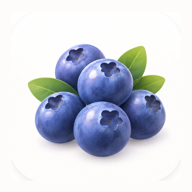
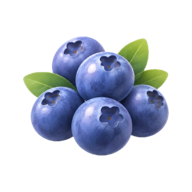
출시 전 손보기: 빈 음식·레시피 메뉴와 준비 중 로그인 버튼 감추기, 앱 아이콘 다시 만들기(안드로이드용 따로)

Changed region(s): [[0.0938, 0.1875, 0.9062, 0.8438]]

diff --git a/index.html b/index.html
@@ -450,6 +450,7 @@
   .login-btn.naver{background:#03C75A;color:#fff;}
   .login-btn.apple{background:#000;color:#fff;}
   .login-btn:disabled{opacity:.42;cursor:default;}
+  .login-btn[hidden]{display:none;}
   .login-soon{font-size:11px;font-weight:600;padding:2px 7px;border-radius:999px;background:rgba(255,255,255,.75);color:#29283A;}
   .set-action{width:100%;background:none;border:none;font-size:15px;font-weight:500;text-align:left;cursor:pointer;color:var(--ink);min-height:52px;}
   .set-action.danger{color:#C0392B;}
@@ -725,14 +726,14 @@
       </div>
     </div>
 
-    <!-- 로그인 안 했을 때: 로그인 방법 고르기. 카카오·네이버·애플은 아직 준비 중 (handoff 참고) -->
+    <!-- 로그인 안 했을 때: 로그인 방법 고르기. 카카오·네이버·애플은 아직 안 붙여서 hidden으로 숨김 (붙이면 hidden·disabled를 빼고 「준비 중」 표시도 지움, handoff 참고) -->
     <div id="login-box">
       <p class="set-label">로그인</p>
       <div class="login-list">
-        <button class="login-btn kakao" disabled><svg class="login-logo" viewBox="0 0 24 24" aria-hidden="true"><path fill="#000" d="M12 3.5c-5 0-9 3.15-9 7.03 0 2.5 1.66 4.7 4.16 5.95l-.85 3.1c-.07.27.24.49.47.33l3.66-2.43c.51.07 1.03.1 1.56.1 5 0 9-3.15 9-7.05S17 3.5 12 3.5z"/></svg>카카오로 계속하기 <span class="login-soon">준비 중</span></button>
-        <button class="login-btn naver" disabled><svg class="login-logo" viewBox="0 0 24 24" aria-hidden="true"><path fill="#fff" d="M14.4 12.5 9.4 5H5v14h4.6v-7.5l5 7.5H19V5h-4.6z"/></svg>네이버로 계속하기 <span class="login-soon">준비 중</span></button>
+        <button class="login-btn kakao" disabled hidden><svg class="login-logo" viewBox="0 0 24 24" aria-hidden="true"><path fill="#000" d="M12 3.5c-5 0-9 3.15-9 7.03 0 2.5 1.66 4.7 4.16 5.95l-.85 3.1c-.07.27.24.49.47.33l3.66-2.43c.51.07 1.03.1 1.56.1 5 0 9-3.15 9-7.05S17 3.5 12 3.5z"/></svg>카카오로 계속하기 <span class="login-soon">준비 중</span></button>
+        <button class="login-btn naver" disabled hidden><svg class="login-logo" viewBox="0 0 24 24" aria-hidden="true"><path fill="#fff" d="M14.4 12.5 9.4 5H5v14h4.6v-7.5l5 7.5H19V5h-4.6z"/></svg>네이버로 계속하기 <span class="login-soon">준비 중</span></button>
         <button class="login-btn google" id="btn-login-google"><svg class="login-logo" viewBox="0 0 48 48" aria-hidden="true"><path fill="#EA4335" d="M24 9.5c3.54 0 6.71 1.22 9.21 3.6l6.85-6.85C35.9 2.38 30.47 0 24 0 14.62 0 6.51 5.38 2.56 13.22l7.98 6.19C12.43 13.72 17.74 9.5 24 9.5z"/><path fill="#4285F4" d="M46.98 24.55c0-1.57-.15-3.09-.38-4.55H24v9.02h12.94c-.58 2.96-2.26 5.48-4.78 7.18l7.73 6c4.51-4.18 7.09-10.36 7.09-17.65z"/><path fill="#FBBC05" d="M10.53 28.59c-.48-1.45-.76-2.99-.76-4.59s.27-3.14.76-4.59l-7.98-6.19C.92 16.46 0 20.12 0 24c0 3.88.92 7.54 2.56 10.78l7.97-6.19z"/><path fill="#34A853" d="M24 48c6.48 0 11.93-2.13 15.89-5.81l-7.73-6c-2.15 1.45-4.92 2.3-8.16 2.3-6.26 0-11.57-4.22-13.47-9.91l-7.98 6.19C6.51 42.62 14.62 48 24 48z"/></svg>구글로 계속하기</button>
-        <button class="login-btn apple" disabled><svg class="login-logo" viewBox="0 0 24 24" aria-hidden="true"><path fill="#fff" d="M16.37 12.6c-.02-2.2 1.8-3.26 1.88-3.31-1.03-1.5-2.62-1.7-3.18-1.73-1.35-.14-2.64.8-3.33.8-.69 0-1.74-.78-2.86-.76-1.47.02-2.83.86-3.59 2.18-1.53 2.66-.39 6.6 1.1 8.75.73 1.05 1.6 2.24 2.73 2.2 1.1-.05 1.51-.71 2.84-.71 1.32 0 1.7.71 2.86.69 1.18-.02 1.93-1.07 2.65-2.13.83-1.22 1.18-2.4 1.2-2.46-.03-.01-2.28-.88-2.3-3.48zM14.2 6.13c.6-.73 1.01-1.75.9-2.76-.87.04-1.92.58-2.54 1.31-.56.65-1.05 1.69-.92 2.68.97.08 1.96-.49 2.56-1.23z"/></svg>Apple로 계속하기 <span class="login-soon">준비 중</span></button>
+        <button class="login-btn apple" disabled hidden><svg class="login-logo" viewBox="0 0 24 24" aria-hidden="true"><path fill="#fff" d="M16.37 12.6c-.02-2.2 1.8-3.26 1.88-3.31-1.03-1.5-2.62-1.7-3.18-1.73-1.35-.14-2.64.8-3.33.8-.69 0-1.74-.78-2.86-.76-1.47.02-2.83.86-3.59 2.18-1.53 2.66-.39 6.6 1.1 8.75.73 1.05 1.6 2.24 2.73 2.2 1.1-.05 1.51-.71 2.84-.71 1.32 0 1.7.71 2.86.69 1.18-.02 1.93-1.07 2.65-2.13.83-1.22 1.18-2.4 1.2-2.46-.03-.01-2.28-.88-2.3-3.48zM14.2 6.13c.6-.73 1.01-1.75.9-2.76-.87.04-1.92.58-2.54 1.31-.56.65-1.05 1.69-.92 2.68.97.08 1.96-.49 2.56-1.23z"/></svg>Apple로 계속하기 <span class="login-soon">준비 중</span></button>
       </div>
       <p class="set-note">로그인하지 않으면 기록은 이 기기에만 저장돼요. 로그인하면 <a href="privacy.html">개인정보처리방침</a>에 따라 바구니 기록을 저장해요.</p>
     </div>
@@ -2269,13 +2270,14 @@ function navigate(go){
 // 메뉴는 아래 데이터(MENU)로만 정의함. 항목을 늘릴 땐 여기만 고치면 됨
 //   id: 고유 이름 / label: 표시 이름 / icon: ICON_PATHS 이름
 //   go: 누르면 갈 곳 {tab, filter?(사전), dish?(음식·레시피)}  /  children: 하위 메뉴 (배열 또는 사전 데이터로 만드는 함수)
+//   show: 이 함수가 false면 메뉴에 안 보임 (데이터가 없는 메뉴는 감춤 — 빈 화면으로 가지 않게)
 const MENU = [
   {id:"home", label:"홈", icon:"home", go:{tab:"home"}},
   {id:"foods", label:"식재료", icon:"leaf", children: ()=>[
     {id:"foods-all", label:"전체", count:ingredients().length, go:{tab:"dict", filter:{type:"all"}}},
     ...presentCategories().map(c=>({id:"cat-" + c, label:c, count:countCategory(c), go:{tab:"dict", filter:{type:"cat", cat:c}}})),
   ]},
-  {id:"dishes", label:"음식·레시피", icon:"pot", children: ()=>[
+  {id:"dishes", label:"음식·레시피", icon:"pot", show: ()=>FOODS.some(f=>f.kind==="dish"), children: ()=>[
     {id:"dish-all", label:"전체", go:{tab:"dishes", dish:"all"}},
     ...CUISINES.map(c=>({id:"dish-" + c, label:c, go:{tab:"dishes", dish:c}})),
   ]},
@@ -2320,7 +2322,7 @@ function menuNode(n, depth){
 }
 function renderMenu(){
   menuIndex = new Map();
-  document.getElementById("drawer-nav").replaceChildren(...MENU.map(n=>menuNode(n, 0)));
+  document.getElementById("drawer-nav").replaceChildren(...MENU.filter(n=>!n.show || n.show()).map(n=>menuNode(n, 0)));
 }
 function toggleMenuGroup(btn){
   const id = btn.dataset.menuToggle;

diff --git a/tools/compose-icon.swift b/tools/compose-icon.swift
@@ -1,0 +1,31 @@
+// 앱 아이콘 만들기: 배경이 투명한 그림(오려낸 블루베리)을 흰 정사각형 가운데에 얹어 png로 저장
+// 쓰는 법: swiftc -O tools/compose-icon.swift -o /tmp/compose-icon
+//          /tmp/compose-icon 오려낸그림.png icon-512.png 512 0.82    ← 마지막 숫자 = 그림이 차지하는 비율
+//   - 일반 아이콘(icon-192/512): 0.82 정도
+//   - 안드로이드용(maskable, 동그랗게 잘림): 가운데 80% 원 안에 들어가야 하므로 0.62 정도
+import Foundation
+import AppKit
+
+let a = CommandLine.arguments
+guard a.count >= 5, let src = NSImage(contentsOfFile: a[1]),
+      let size = Double(a[3]), let ratio = Double(a[4]) else {
+  fatalError("usage: compose-icon <input.png> <output.png> <size> <ratio>")
+}
+let S = CGFloat(size)
+let rep = NSBitmapImageRep(bitmapDataPlanes: nil, pixelsWide: Int(S), pixelsHigh: Int(S),
+                           bitsPerSample: 8, samplesPerPixel: 4, hasAlpha: true, isPlanar: false,
+                           colorSpaceName: .deviceRGB, bytesPerRow: 0, bitsPerPixel: 0)!
+NSGraphicsContext.saveGraphicsState()
+NSGraphicsContext.current = NSGraphicsContext(bitmapImageRep: rep)
+NSGraphicsContext.current?.imageInterpolation = .high
+NSColor.white.setFill()
+NSRect(x: 0, y: 0, width: S, height: S).fill()
+// 그림을 비율에 맞춰 줄이고 가운데에 놓음 (가로·세로 중 긴 쪽 기준)
+let w = src.size.width, h = src.size.height
+let scale = S * CGFloat(ratio) / max(w, h)
+let dw = w * scale, dh = h * scale
+src.draw(in: NSRect(x: (S - dw) / 2, y: (S - dh) / 2, width: dw, height: dh),
+         from: .zero, operation: .sourceOver, fraction: 1)
+NSGraphicsContext.restoreGraphicsState()
+try! rep.representation(using: .png, properties: [:])!.write(to: URL(fileURLWithPath: a[2]))
+print("ok")

diff --git a/sw.js b/sw.js
@@ -1,5 +1,5 @@
 // 블루베리 — 오프라인 캐싱용 서비스워커
-const CACHE_NAME = "blueberry-v128";
+const CACHE_NAME = "blueberry-v129";
 const ASSETS = [
   "./",
   "./index.html",
@@ -7,7 +7,9 @@ const ASSETS = [
   "./manifest.json",
   "./foods.json",
   "./icon-192.png",
-  "./icon-512.png"
+  "./icon-512.png",
+  "./icon-maskable-192.png",
+  "./icon-maskable-512.png"
 ];
 
 self.addEventListener("install", (e) => {

diff --git a/handoff.md b/handoff.md
@@ -1,7 +1,7 @@
 # 블루베리 앱 — 인수인계
 
 > 새 대화를 열면 이 파일부터 읽게 할 것. 작업이 한 단계 끝날 때마다 Claude가 최신으로 고친다.
-> 마지막 갱신: 2026-11-25
+> 마지막 갱신: 2026-11-28
 
 ## 지금 상태
 
@@ -99,6 +99,11 @@
 ## 진행 상황
 
 **끝난 것**
+- **출시 전 화면 손보기 1차** (2026-11-28, v129) — 휴대폰 크기로 화면을 둘러보고 「꼭 고칠 것」 3가지 처리
+  - 빈 메뉴 「음식·레시피」 감춤: 완성 음식(`kind:"dish"`)이 0개라 빈 화면이었음. `MENU`에 `show` 조건을 넣어 음식이 생기면 저절로 다시 보임
+  - 「준비 중」 로그인 버튼(카카오·네이버·Apple) 감춤: 스토어 심사에서 「작동 안 하는 버튼」으로 걸릴 수 있고 「준비 중 표시 금지」 원칙과도 맞지 않아서. 버튼 코드는 `hidden`으로 남겨 둠(붙일 때 hidden·disabled·준비 중 표시를 지우면 됨). 지금은 구글 버튼만 보임
+  - 앱 아이콘 새로 만듦: 옛 둥근 테두리 흔적을 없애고(블루베리만 오려서 흰 바탕에 다시 얹음), 안드로이드용 `icon-maskable-192/512.png`(여백 넉넉)를 따로 둬 manifest에 연결. 도구 `tools/compose-icon.swift`
+  - 남은 제안(2026-11-25 화면 점검): 바구니 분류 「식당·요리」 정리(식재료 중심으로), 사전 화면 안내 문구 한 줄로, 스토어용 이미지(대표 그림 1024×500, 화면 캡처 2~8장)
 - **늙은호박·애호박 완성** (2026-11-25, v125, 새 항목 `ripe-pumpkin`·`young-pumpkin`, 사전 56개) — 호박을 종류별로 나누기로 한 결정(2026-11-22)의 나머지. 초안 `ripe-pumpkin.md`·`young-pumpkin.md`. 사진·아이콘 넣음(v127~128)
   - 늙은호박: 「호박, 늙은호박, 생것」(농진청'19, 38kcal). 별칭 청둥호박(호박고지는 애호박 말린 것과 겹쳐 뺌). 제철 9~11월(농식품정보누리, 늦가을에 가장 많이). 두드러지는 영양소 엽산·비타민A·칼륨(베타카로틴은 단호박의 4분의 1). 궁합 식용유·들기름·올리브유. 속설 4개(붓기·산후 붓기 밝혀진 바 없음 — 옛 처방의 「호박」은 보석 호박(琥珀)이라는 한국한의학연구원 문헌 연구, 콩팥병 칼륨 주의만; 다이어트 밝혀진 바 없음(호박죽은 찹쌀·설탕으로 열량↑, 성분표에 호박죽 없음); 혈당 근거가 약함(단호박 항목 참고); 단호박만큼 베타카로틴 사실과 다름)
   - 애호박: 「호박, 애호박, 생것」(농진청'15, 22kcal). 별칭 인큐애호박(풋호박은 엉뚱한 연결 우려로 뺌). 쥬키니(돼지호박)는 다른 종이라 별칭에서 뺌. 제철 6~8월(농사로 여름재배). 두드러지는 영양소 식이섬유·엽산·칼륨. 궁합 없음. 속설 5개(인큐 애호박 몸에 안 좋다 밝혀진 바 없음(화학 처리 아닌 봉지재배), 쓴 애호박도 익히면 괜찮다 사실과 다름(쿠쿠르비타신, 쓰면 뱉고 버리기), 물뿐이라 영양 없다 사실과 다름, 다이어트 밝혀진 바 없음, 쥬키니와 같다 사실과 다름)

diff --git a/CLAUDE.md b/CLAUDE.md
@@ -14,6 +14,7 @@
 - 대화는 **한국어로만**. 사용자는 프로그래밍 초보라 용어를 풀어서 설명한다.
 
 빌드 없는 단일 파일 PWA (`index.html`, `foods.json`, `manifest.json`, `sw.js`, 아이콘).
+앱 아이콘: `icon-192/512.png`(일반, 그림이 82%)와 `icon-maskable-192/512.png`(안드로이드용, 동그랗게 잘려도 되게 62%). 만드는 도구는 `tools/compose-icon.swift` (오려낸 그림을 흰 정사각형 가운데에 얹음)
 
 ## 규칙
 
@@ -88,7 +89,7 @@
 ## 메뉴 구조
 
 - 하단 탭: 홈 · 사전 · 바구니 · 설정(view-settings, 계정 포함, 맨 아래 「앱 정보」에 의료 안내·근거 등급 설명). 식재료 상세 맨 아래에도 의료 안내(`MEDICAL_NOTE`). 「오늘 뭐 먹지?」(view-pick, 예전 뽑기)는 사이드 메뉴에서만 들어감
-- 사이드 메뉴 항목은 `MENU` 배열에서만 정의 (`id`, `label`, `icon`, `go:{tab, filter}`, `children`). 데이터·화면이 없는 메뉴는 넣지 않는다
+- 사이드 메뉴 항목은 `MENU` 배열에서만 정의 (`id`, `label`, `icon`, `go:{tab, filter}`, `children`, `show`). 데이터·화면이 없는 메뉴는 넣지 않는다 — 데이터가 생길 메뉴는 `show` 함수로 감춰 둔다 (예: 「음식·레시피」는 `kind:"dish"` 항목이 생기면 저절로 보임)
 - 사전 필터 `dictFilter`: `{type:"all"}` / `{type:"cat", cat}` / `{type:"season", month}` / `{type:"viewed"}`(인기 = 이 기기에서 많이 본 순)
 - 완성 음식은 사전 항목에 `"kind": "dish"`, `"cuisine": "한식"|"양식"|"중식"|"일식"|"간식·디저트"` (잠정). 「음식·레시피」(view-dishes)에 보이고 식재료 목록에선 빠짐
 
